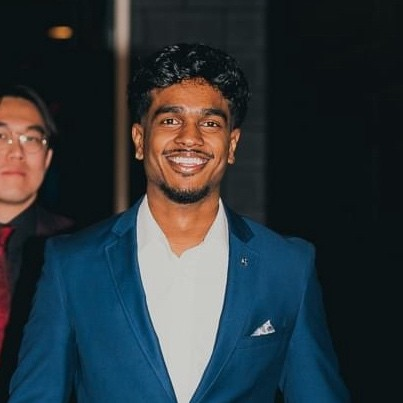
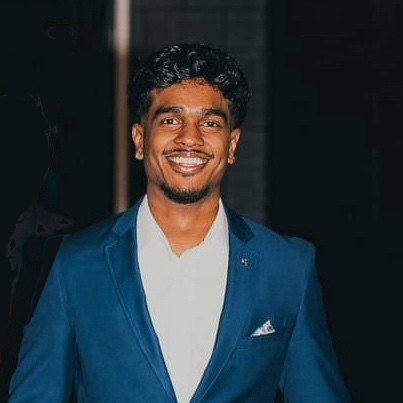
updated profile picture

diff --git a/src/components/me.jsx b/src/components/me.jsx
@@ -1,6 +1,6 @@
 import React from 'react'
 import { HERO } from '../constants'
-import profilePic from '../assets/abhinav3.png'
+import profilePic from '../assets/abhinav1.png'
 
 const Me = () => {
     return (
